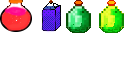
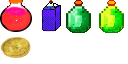
Add gold coin.

Changed region(s): [[0.0, 0.5625, 0.25, 0.9062]]

diff --git a/Askalhorn.Inventory/Items/Coin.cs b/Askalhorn.Inventory/Items/Coin.cs
@@ -1,0 +1,13 @@
+using Askalhorn.Common;
+using MonoGame.Extended.TextureAtlases;
+
+namespace Askalhorn.Inventory.Items
+{
+    public class Coin: Item
+    {
+        public override ItemPurpose Type => ItemPurpose.Currency;
+        public override ItemRarity ItemRarity => ItemRarity.Casual;
+        public override float Weight => .008f;
+        protected override IImpact Impact => null;
+    }
+}
